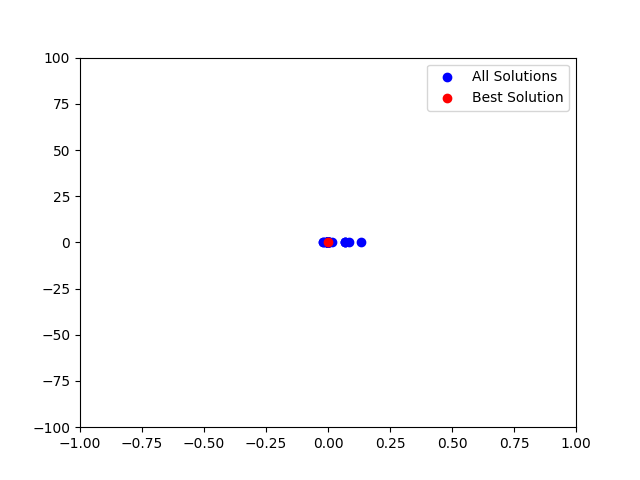
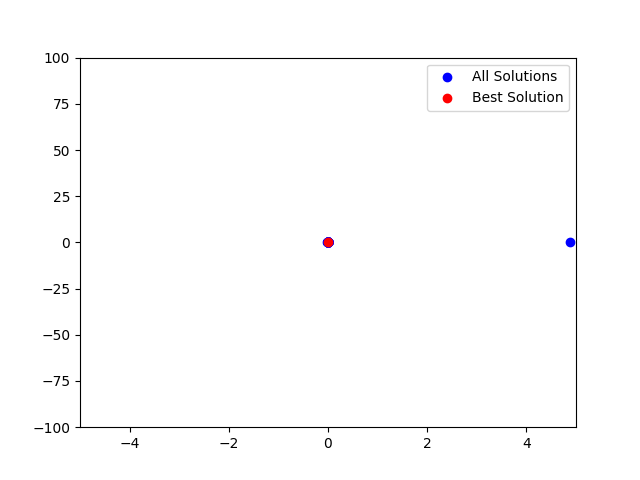
Updates
Removed individual use of different objective functions by introducing a common variable. Updated best solution updates by comparing solution values when objective value 0 is reached

diff --git a/recursive_attack.py b/recursive_attack.py
@@ -17,21 +17,28 @@ def inverse_udldu(udldu):
     '''Derive u from udldu using Differential Evolution method and plot the optimization process.'''
     udldu = torch.tensor(udldu).to(**setup)
 
-    def objective_quantile(u, quantile=0.5):
+    def objective_quantile(u, quantile=0.5): #Unused
         u = torch.tensor(u).to(**setup)
         udldu_ = -u / (1 + torch.exp(u))
         loss = torch.mean(torch.max((quantile - (udldu_ - udldu) < 0) * (quantile - (udldu_ - udldu)),
                                     (1 - quantile - (udldu_ - udldu) > 0) * (1 - quantile - (udldu_ - udldu)))).item()
         return loss
 
-    def objective_mse(u):
+    def objective_mse(u): #Unused
         u = torch.tensor(u).to(**setup)
         udldu_ = -u / (1 + torch.exp(u))
         loss = torch.mean((udldu_ - udldu) ** 2).item()
         return loss
 
-    # Define bounds to -100 and 100
-    bounds = [(-1, 1)]  # Adjusted bounds
+    #Objective Function for DE
+    def objective_func(u): #MSE
+        u = torch.tensor(u).to(**setup)
+        udldu_ = -u / (1 + torch.exp(u))
+        loss = torch.mean((udldu_ - udldu) ** 2).item()
+        return loss
+
+    bounds = [(-5, 5)]  # Adjusted bounds
+    popul = 50 # Population Size
 
     iteration_count = 0
     min_iterations = 100
@@ -56,7 +63,7 @@ def inverse_udldu(udldu):
         iteration_count += 1
         # print(f"Iteration: {iteration_count}")
         #current_objective = objective_quantile(xk)
-        current_objective = objective_mse(xk)
+        current_objective = objective_func(xk)
         print(f"Iteration: {iteration_count}, Current Solution: {xk[0]}, Objective Value: {current_objective}")
 
         all_solutions.append(xk[0])
@@ -67,11 +74,51 @@ def inverse_udldu(udldu):
         #     best_solution = xk
         #     best_objective = current_objective
 
+        # if current_objective < best_objective:
+        #     best_solution = xk
+        #     best_objective = current_objective
+        #     best_solution_iteration = iteration_count
+        #     print(f"New best solution found: {best_solution}, with objective value: {best_objective} at iteration {best_solution_iteration}")
+
+        # if current_objective < best_objective:
+        #     if current_objective == 0.0:
+        #         if abs(xk[0]) < best_solution_value:
+        #             best_solution = xk
+        #             best_solution_value = abs(xk[0])
+        #             best_objective = current_objective
+        #             print(f"New best solution found: {best_solution}, with objective value: {best_objective} at iteration {best_solution_iteration}")
+        #     else:
+        #         best_solution = xk
+        #         best_objective = current_objective
+        #         best_solution_iteration = iteration_count
+        #         print(f"New best solution found: {best_solution}, with objective value: {best_objective} at iteration {best_solution_iteration}")
+
         if current_objective < best_objective:
-            best_solution = xk
-            best_objective = current_objective
-            best_solution_iteration = iteration_count
-            print(f"New best solution found: {best_solution}, with objective value: {best_objective} at iteration {best_solution_iteration}")
+            if current_objective == 0.0:
+                # Compare solutions based on their absolute values once the objective is zero
+                if abs(xk[0]) < best_solution_value:
+                    best_solution = xk
+                    best_solution_value = abs(xk[0])
+                    best_objective = current_objective  # Objective remains zero
+                    best_solution_iteration = iteration_count
+                    print(f"New best solution found (objective = 0): {best_solution}, with objective value: {best_objective}, at iteration {best_solution_iteration}")
+            else:
+                # Update based on the objective value if the objective is not zero
+                best_solution = xk
+                best_objective = current_objective
+                best_solution_iteration = iteration_count
+                best_solution_value = abs(xk[0])  # Update the best solution value as well
+                print(f"New best solution found: {best_solution}, with objective value: {best_objective}, at iteration {best_solution_iteration}")
+
+        #Had to add this elif as a fail proof of best solution updates when the objective value 0 is reached already
+        elif current_objective == 0.0:
+            # Even if the current objective is equal to the best (i.e., 0), keep checking for a smaller solution
+            if abs(xk[0]) < best_solution_value:
+                best_solution = xk
+                best_solution_value = abs(xk[0])
+                best_objective = current_objective  # Keep objective as 0
+                best_solution_iteration = iteration_count
+                print(f"New best solution found (objective = 0): {best_solution}, with objective value: {best_objective}, at iteration {best_solution_iteration}")
 
         # Update the best solution based on the current solution's absolute value
         # In this approach the reconstructed image is better than the other approach (loss comparision), however it is worse after rescaling
@@ -109,7 +156,7 @@ def inverse_udldu(udldu):
         if convergence or iteration_count >= max_iterations:
             if convergence:
                 #print(f"Stopping optimization at iteration {iteration_count} as minimum iterations are completed. Convergence was already detected at {convergence_iteration}")
-                print(f"Stopping optimization at iteration {iteration_count} as minimum iterations are completed. Best solution detected at {best_solution_iteration}")
+                print(f"Stopping optimization at iteration {iteration_count} as minimum iterations are completed and convergence is done. Best solution detected at iteration {best_solution_iteration}.")
             else:
                 print(f"Maximum iterations exceeded {iteration_count}")
             return True  # Stop the optimization
@@ -123,7 +170,7 @@ def inverse_udldu(udldu):
         # result = differential_evolution(objective_quantile, bounds, popsize=10, callback=callback_function,
         #                                 maxiter=max_iterations, polish=False, init='latinhypercube',
         #                                 updating='deferred')
-        result = differential_evolution(objective_mse, bounds, popsize=10, callback=callback_function,
+        result = differential_evolution(objective_func, bounds, popsize=popul, callback=callback_function,
                                         maxiter=max_iterations, polish=False, init='latinhypercube',
                                         updating='deferred')
         if result.success and iteration_count >= min_iterations:
@@ -143,8 +190,10 @@ def inverse_udldu(udldu):
     print(f"Best objective value: {best_objective}")
     print(f"Optimal solution: {u_optimized}")
     print(f"Bounds used: {bounds}")
+    print(f"Population: {popul}")
     print(f"Total number of iterations performed: {iteration_count}")
-    print(f"Total number of iterations required: {result.nit}")
+    # print(f"Total number of iterations required: {result.nit}")
+    print(f"Total number of iterations required: {best_solution_iteration}")
 
     # Final plot display
     # plt.show()
